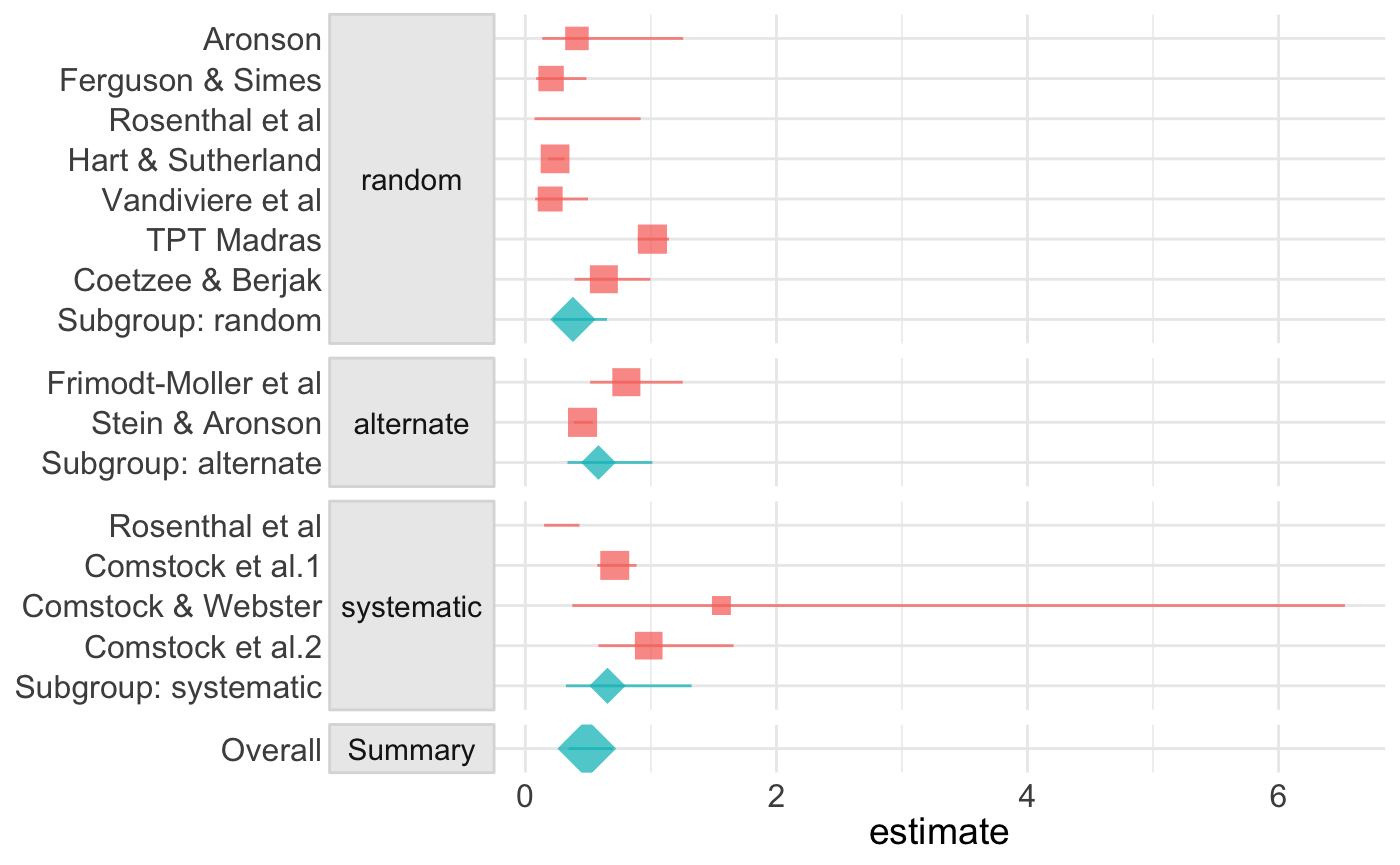
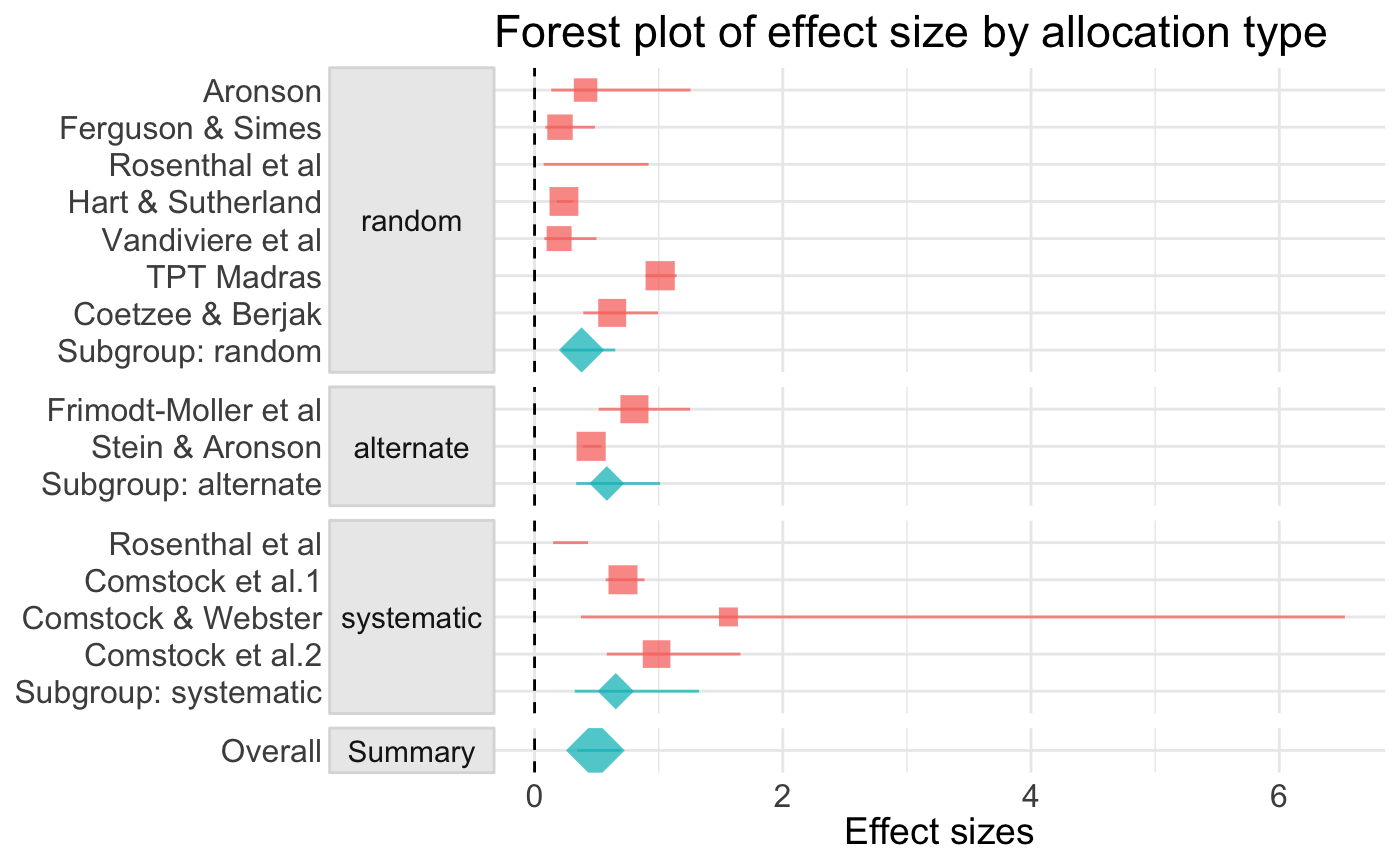
demostration ggplot2 on tidymeta graphics

diff --git a/docs/articles/extractMeta_WKH.html b/docs/articles/extractMeta_WKH.html
@@ -100,7 +100,7 @@
 <a class="sourceLine" id="cb1-3" data-line-number="3"><span class="co">#&gt; ✔ robvis     0.0.0.9000     ✔ revtools   0.3.0     </span></a>
 <a class="sourceLine" id="cb1-4" data-line-number="4"><span class="co">#&gt; ✔ metafor    2.1.0          ✔ metadat    0.1.0     </span></a>
 <a class="sourceLine" id="cb1-5" data-line-number="5"><span class="co">#&gt; ✔ tidymeta   0.1.0.9000     ✔ broom      0.5.2.9001</span></a>
-<a class="sourceLine" id="cb1-6" data-line-number="6"><span class="co">#&gt; ✔ litsearchr 0.1.0</span></a>
+<a class="sourceLine" id="cb1-6" data-line-number="6"><span class="co">#&gt; ✔ litsearchr 0.1.0          ✔ pubBias    0.0.1</span></a>
 <a class="sourceLine" id="cb1-7" data-line-number="7"><span class="kw"><a href="https://www.rdocumentation.org/packages/base/topics/library">library</a></span>(mbmisc)</a></code></pre></div>
 <p>Model objects can be challenging to work with in their raw form in R. The <a href="https://broom.tidyverse.org/"><code>broom::</code></a> package provides tools to extract commonly desired model output in <strong>table</strong> form:</p>
 <blockquote>
@@ -613,18 +613,21 @@
 <div id="forest-plot" class="section level2">
 <h2 class="hasAnchor">
 <a href="#forest-plot" class="anchor"></a>Forest Plot</h2>
-<p><code>tidymeta::</code> also has some handy ggplot based graphics for meta-analysis</p>
+<p><code>tidymeta::</code> also has some handy ggplot based graphics for meta-analysis. Graph elements can be added using <code>ggplot2</code> geoms.</p>
 <div class="sourceCode" id="cb7"><pre class="sourceCode r"><code class="sourceCode r"><a class="sourceLine" id="cb7-1" data-line-number="1">fp &lt;-<span class="st"> </span>ma <span class="op">%&gt;%</span><span class="st"> </span></a>
-<a class="sourceLine" id="cb7-2" data-line-number="2"><span class="st">  </span><span class="kw">forest_plot</span>(<span class="dt">group =</span> alloc)</a>
-<a class="sourceLine" id="cb7-3" data-line-number="3"></a>
-<a class="sourceLine" id="cb7-4" data-line-number="4">fp</a></code></pre></div>
+<a class="sourceLine" id="cb7-2" data-line-number="2"><span class="st">  </span><span class="kw">forest_plot</span>(<span class="dt">group =</span> alloc) <span class="op">+</span></a>
+<a class="sourceLine" id="cb7-3" data-line-number="3"><span class="st">  </span>ggplot2<span class="op">::</span><span class="kw"><a href="https://www.rdocumentation.org/packages/ggplot2/topics/geom_abline">geom_vline</a></span>(<span class="dt">xintercept =</span> <span class="dv">0</span>, <span class="dt">linetype =</span> <span class="st">"dashed"</span>) <span class="op">+</span></a>
+<a class="sourceLine" id="cb7-4" data-line-number="4"><span class="st">  </span>ggplot2<span class="op">::</span><span class="kw"><a href="https://www.rdocumentation.org/packages/ggplot2/topics/labs">xlab</a></span>(<span class="st">"Effect sizes"</span>) <span class="op">+</span></a>
+<a class="sourceLine" id="cb7-5" data-line-number="5"><span class="st">  </span>ggplot2<span class="op">::</span><span class="kw"><a href="https://www.rdocumentation.org/packages/ggplot2/topics/labs">labs</a></span>(<span class="dt">title =</span> <span class="st">"Forest plot of effect size by allocation type"</span>)</a>
+<a class="sourceLine" id="cb7-6" data-line-number="6"></a>
+<a class="sourceLine" id="cb7-7" data-line-number="7">fp</a></code></pre></div>
 <p><img src="extractMeta_WKH_files/figure-html/unnamed-chunk-4-1.png" width="700"></p>
 </div>
 <div id="publication-bias" class="section level2">
 <h2 class="hasAnchor">
 <a href="#publication-bias" class="anchor"></a>Publication Bias</h2>
 <p>Estimates the Vevea and Hedges (1995) weight-function model using the <code>pubBias::</code> package.</p>
-<div class="sourceCode" id="cb8"><pre class="sourceCode r"><code class="sourceCode r"><a class="sourceLine" id="cb8-1" data-line-number="1">pubBias<span class="op">::</span><span class="kw"><a href="https://www.rdocumentation.org/packages/pubBias/topics/weightrMeta">weightrMeta</a></span>(ma)</a>
+<div class="sourceCode" id="cb8"><pre class="sourceCode r"><code class="sourceCode r"><a class="sourceLine" id="cb8-1" data-line-number="1"><span class="kw">weightrMeta</span>(ma)</a>
 <a class="sourceLine" id="cb8-2" data-line-number="2"><span class="co">#&gt; </span></a>
 <a class="sourceLine" id="cb8-3" data-line-number="3"><span class="co">#&gt; Unadjusted Model (k = 17):</span></a>
 <a class="sourceLine" id="cb8-4" data-line-number="4"><span class="co">#&gt; </span></a>
@@ -673,7 +676,7 @@
 
 
       <footer><div class="copyright">
-  <p>Developed by Martin Westgate, Eliza Grames, Charles Gray, W. Kyle Hamilton, Emily Kothe, Luke McGuinness, Rose O'Dea, Alfredo Sanchez-Tojar, Malcolm Barrett, Michael Schermann.</p>
+  <p>Developed by Martin Westgate, Malcolm Barrett, Eliza Grames, Charles Gray, W. Kyle Hamilton, Emily Kothe, Luke McGuinness, Rose O'Dea, Alfredo Sanchez-Tojar, Malcolm Barrett, Michael Schermann.</p>
 </div>
 
 <div class="pkgdown">

diff --git a/docs/index.html b/docs/index.html
@@ -132,6 +132,7 @@
 <h2>Developers</h2>
 <ul class="list-unstyled">
 <li>Martin Westgate <br><small class="roles"> Author, maintainer </small> <a href="https://orcid.org/0000-0003-0854-2034" target="orcid.widget"><img src="https://members.orcid.org/sites/default/files/vector_iD_icon.svg" class="orcid" alt="ORCID" height="16"></a> </li>
+<li>Malcolm Barrett <br><small class="roles"> Author </small> <a href="https://orcid.org/0000-0003-0299-5825" target="orcid.widget"><img src="https://members.orcid.org/sites/default/files/vector_iD_icon.svg" class="orcid" alt="ORCID" height="16"></a> </li>
 <li>Eliza Grames <br><small class="roles"> Author </small> <a href="https://orcid.org/0000-0003-1743-6815" target="orcid.widget"><img src="https://members.orcid.org/sites/default/files/vector_iD_icon.svg" class="orcid" alt="ORCID" height="16"></a> </li>
 <li>Charles Gray <br><small class="roles"> Author </small> <a href="https://orcid.org/0000-0002-9978-011X" target="orcid.widget"><img src="https://members.orcid.org/sites/default/files/vector_iD_icon.svg" class="orcid" alt="ORCID" height="16"></a> </li>
 <li>W. Kyle Hamilton <br><small class="roles"> Author </small> <a href="https://orcid.org/0000-0002-8642-7990" target="orcid.widget"><img src="https://members.orcid.org/sites/default/files/vector_iD_icon.svg" class="orcid" alt="ORCID" height="16"></a> </li>
@@ -150,7 +151,7 @@
 
 
       <footer><div class="copyright">
-  <p>Developed by Martin Westgate, Eliza Grames, Charles Gray, W. Kyle Hamilton, Emily Kothe, Luke McGuinness, Rose O'Dea, Alfredo Sanchez-Tojar, Malcolm Barrett, Michael Schermann.</p>
+  <p>Developed by Martin Westgate, Malcolm Barrett, Eliza Grames, Charles Gray, W. Kyle Hamilton, Emily Kothe, Luke McGuinness, Rose O'Dea, Alfredo Sanchez-Tojar, Malcolm Barrett, Michael Schermann.</p>
 </div>
 
 <div class="pkgdown">

diff --git a/docs/authors.html b/docs/authors.html
@@ -123,6 +123,10 @@
         </p>
       </li>
       <li>
+        <p><strong>Malcolm Barrett</strong>. Author. <a href='https://orcid.org/0000-0003-0299-5825' target='orcid.widget'><img src='https://members.orcid.org/sites/default/files/vector_iD_icon.svg' class='orcid' alt='ORCID' height='16'></a>
+        </p>
+      </li>
+      <li>
         <p><strong>Eliza Grames</strong>. Author. <a href='https://orcid.org/0000-0003-1743-6815' target='orcid.widget'><img src='https://members.orcid.org/sites/default/files/vector_iD_icon.svg' class='orcid' alt='ORCID' height='16'></a>
         </p>
       </li>
@@ -167,7 +171,7 @@
 
       <footer>
       <div class="copyright">
-  <p>Developed by Martin Westgate, Eliza Grames, Charles Gray, W. Kyle Hamilton, Emily Kothe, Luke McGuinness, Rose O'Dea, Alfredo Sanchez-Tojar, Malcolm Barrett, Michael Schermann.</p>
+  <p>Developed by Martin Westgate, Malcolm Barrett, Eliza Grames, Charles Gray, W. Kyle Hamilton, Emily Kothe, Luke McGuinness, Rose O'Dea, Alfredo Sanchez-Tojar, Malcolm Barrett, Michael Schermann.</p>
 </div>
 
 <div class="pkgdown">

diff --git a/docs/LICENSE-text.html b/docs/LICENSE-text.html
@@ -291,7 +291,7 @@ Library.
 
       <footer>
       <div class="copyright">
-  <p>Developed by Martin Westgate, Eliza Grames, Charles Gray, W. Kyle Hamilton, Emily Kothe, Luke McGuinness, Rose O'Dea, Alfredo Sanchez-Tojar, Malcolm Barrett, Michael Schermann.</p>
+  <p>Developed by Martin Westgate, Malcolm Barrett, Eliza Grames, Charles Gray, W. Kyle Hamilton, Emily Kothe, Luke McGuinness, Rose O'Dea, Alfredo Sanchez-Tojar, Malcolm Barrett, Michael Schermann.</p>
 </div>
 
 <div class="pkgdown">

diff --git a/docs/articles/index.html b/docs/articles/index.html
@@ -132,7 +132,7 @@
 
       <footer>
       <div class="copyright">
-  <p>Developed by Martin Westgate, Eliza Grames, Charles Gray, W. Kyle Hamilton, Emily Kothe, Luke McGuinness, Rose O'Dea, Alfredo Sanchez-Tojar, Malcolm Barrett, Michael Schermann.</p>
+  <p>Developed by Martin Westgate, Malcolm Barrett, Eliza Grames, Charles Gray, W. Kyle Hamilton, Emily Kothe, Luke McGuinness, Rose O'Dea, Alfredo Sanchez-Tojar, Malcolm Barrett, Michael Schermann.</p>
 </div>
 
 <div class="pkgdown">

diff --git a/docs/reference/index.html b/docs/reference/index.html
@@ -153,7 +153,7 @@
 
       <footer>
       <div class="copyright">
-  <p>Developed by Martin Westgate, Eliza Grames, Charles Gray, W. Kyle Hamilton, Emily Kothe, Luke McGuinness, Rose O'Dea, Alfredo Sanchez-Tojar, Malcolm Barrett, Michael Schermann.</p>
+  <p>Developed by Martin Westgate, Malcolm Barrett, Eliza Grames, Charles Gray, W. Kyle Hamilton, Emily Kothe, Luke McGuinness, Rose O'Dea, Alfredo Sanchez-Tojar, Malcolm Barrett, Michael Schermann.</p>
 </div>
 
 <div class="pkgdown">

diff --git a/docs/reference/metaverse_packages.html b/docs/reference/metaverse_packages.html
@@ -157,7 +157,7 @@
 
       <footer>
       <div class="copyright">
-  <p>Developed by Martin Westgate, Eliza Grames, Charles Gray, W. Kyle Hamilton, Emily Kothe, Luke McGuinness, Rose O'Dea, Alfredo Sanchez-Tojar, Malcolm Barrett, Michael Schermann.</p>
+  <p>Developed by Martin Westgate, Malcolm Barrett, Eliza Grames, Charles Gray, W. Kyle Hamilton, Emily Kothe, Luke McGuinness, Rose O'Dea, Alfredo Sanchez-Tojar, Malcolm Barrett, Michael Schermann.</p>
 </div>
 
 <div class="pkgdown">

diff --git a/docs/articles/intro-to-robvis.html b/docs/articles/intro-to-robvis.html
@@ -142,7 +142,7 @@
 
 
       <footer><div class="copyright">
-  <p>Developed by Martin Westgate, Eliza Grames, Charles Gray, W. Kyle Hamilton, Emily Kothe, Luke McGuinness, Rose O'Dea, Alfredo Sanchez-Tojar, Malcolm Barrett, Michael Schermann.</p>
+  <p>Developed by Martin Westgate, Malcolm Barrett, Eliza Grames, Charles Gray, W. Kyle Hamilton, Emily Kothe, Luke McGuinness, Rose O'Dea, Alfredo Sanchez-Tojar, Malcolm Barrett, Michael Schermann.</p>
 </div>
 
 <div class="pkgdown">

diff --git a/docs/articles/search_and_screening.html b/docs/articles/search_and_screening.html
@@ -209,7 +209,7 @@
 
 
       <footer><div class="copyright">
-  <p>Developed by Martin Westgate, Eliza Grames, Charles Gray, W. Kyle Hamilton, Emily Kothe, Luke McGuinness, Rose O'Dea, Alfredo Sanchez-Tojar, Malcolm Barrett, Michael Schermann.</p>
+  <p>Developed by Martin Westgate, Malcolm Barrett, Eliza Grames, Charles Gray, W. Kyle Hamilton, Emily Kothe, Luke McGuinness, Rose O'Dea, Alfredo Sanchez-Tojar, Malcolm Barrett, Michael Schermann.</p>
 </div>
 
 <div class="pkgdown">
